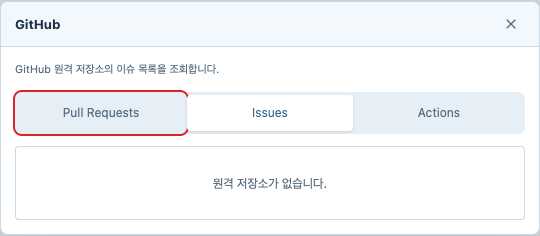
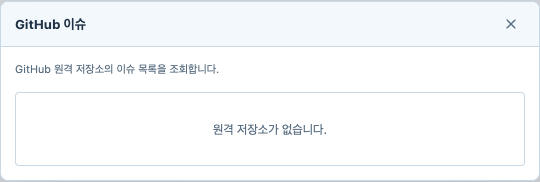
refactor: open provider lists as separate command dialogs

diff --git a/public/providers.js b/public/providers.js
@@ -4,8 +4,8 @@ githubPRs:['GitHub Pull Requests',[]],githubIssues:['GitHub Issues',[]],githubRu
 const integrations=el('section',undefined,'sidebar-integrations');$('branches').previousElementSibling.before(integrations);
 
 
-function providerTabs(definitions,active,onSelect){
- return PgitUI.segments({items:definitions,value:active,label:'리뷰 · 이슈 · CI',onChange:onSelect,className:'reference-modes provider-tabs',dataKey:'providerTab'}).element;
+function providerListFrame(action,remote,onRemote){
+ const body=advancedFrame(PgitI18n.t(commands[action][0])+(remote?' · '+remote:''),'list');body.dataset.providerAction=action;PgitCommandHelp.mount(body,action);providerRemoteSelect(body,remote,onRemote);return body;
 }
 function providerItem(item,title,meta,provider,action,remote){
  const project=state.remoteDetails?.find(r=>r.name===remote)?.url;
@@ -29,7 +29,7 @@ const providerOpenCommand=openCommand;openCommand=async function(key){
  return providerOpenCommand(key);
 };
 let githubViewRequest=0;
-async function showGitHub(action,remote){if(!state)return notify('먼저 저장소를 여세요.');remote=remote||(state.remotes.includes('origin')?'origin':state.remotes[0]);const request=++githubViewRequest,root=state.root;const body=advancedFrame('GitHub'+(remote?' · '+remote:''),'list');PgitCommandHelp.mount(body,action);providerRemoteSelect(body,remote,value=>showGitHub(action,value));const tabs=providerTabs([['githubPRs','Pull Requests'],['githubIssues','Issues'],['githubRuns','Actions']],action,key=>showGitHub(key,remote));body.append(tabs);const list=el('div',undefined,'ui-item-list');body.append(list);if(!remote){list.append(PgitUI.message('원격 저장소가 없습니다.'));return}list.append(PgitUI.message('불러오는 중…'));try{const result=JSON.parse(await api(action,{remote}));if(request!==githubViewRequest||state.root!==root||!body.isConnected)return;list.replaceChildren();for(const item of result){const row=providerItem(item,(item.number?'#'+item.number+' · ':'')+(item.title||item.displayTitle),item.headRefName?item.headRefName+' → '+item.baseRefName:item.status?item.status+' · '+(item.conclusion||''):item.updatedAt||'','github',action,remote);if(action==='githubPRs'){const detail=el('button','상세 보기');detail.onclick=()=>showProviderReview('github',item.number,remote);row.querySelector('.ui-list-actions').append(detail)}if(action==='githubPRs')for(const [key,label] of [['githubPRDiff','Diff'],['githubPRChecks','검사'],['githubPRCheckout','체크아웃']]){const b=el('button',label);b.onclick=async()=>{if(key==='githubPRDiff'||key==='githubPRChecks')return showProviderReview('github',item.number,remote,key==='githubPRDiff'?'files':'checks');return checkoutProvider(key,item.number,remote)};row.querySelector('.ui-list-actions').append(b)}list.append(row)}if(!result.length)list.append(PgitUI.message('표시할 항목이 없습니다.'))}catch(e){if(request===githubViewRequest&&body.isConnected)list.replaceChildren(PgitUI.message(e.message,{error:true}))}}
+async function showGitHub(action,remote){if(!state)return notify('먼저 저장소를 여세요.');remote=remote||(state.remotes.includes('origin')?'origin':state.remotes[0]);const request=++githubViewRequest,root=state.root;const body=providerListFrame(action,remote,value=>showGitHub(action,value));const list=el('div',undefined,'ui-item-list');body.append(list);if(!remote){list.append(PgitUI.message('원격 저장소가 없습니다.'));return}list.append(PgitUI.message('불러오는 중…'));try{const result=JSON.parse(await api(action,{remote}));if(request!==githubViewRequest||state.root!==root||!body.isConnected)return;list.replaceChildren();for(const item of result){const row=providerItem(item,(item.number?'#'+item.number+' · ':'')+(item.title||item.displayTitle),item.headRefName?item.headRefName+' → '+item.baseRefName:item.status?item.status+' · '+(item.conclusion||''):item.updatedAt||'','github',action,remote);if(action==='githubPRs'){const detail=el('button','상세 보기');detail.onclick=()=>showProviderReview('github',item.number,remote);row.querySelector('.ui-list-actions').append(detail)}if(action==='githubPRs')for(const [key,label] of [['githubPRDiff','Diff'],['githubPRChecks','검사'],['githubPRCheckout','체크아웃']]){const b=el('button',label);b.onclick=async()=>{if(key==='githubPRDiff'||key==='githubPRChecks')return showProviderReview('github',item.number,remote,key==='githubPRDiff'?'files':'checks');return checkoutProvider(key,item.number,remote)};row.querySelector('.ui-list-actions').append(b)}list.append(row)}if(!result.length)list.append(PgitUI.message('표시할 항목이 없습니다.'))}catch(e){if(request===githubViewRequest&&body.isConnected)list.replaceChildren(PgitUI.message(e.message,{error:true}))}}
 
 const beforeProviderApi=api;api=async function(action,data={}){const result=await beforeProviderApi(action,data);if(action==='githubPRCheckout'||action==='gitlabMRCheckout'){state=await beforeProviderApi('state',{limit:historyLimit});scope=null;activeCommit=null;render()}return result};
 
@@ -47,10 +47,8 @@ let gitlabViewRequest=0;
 async function showGitLab(action='gitlabMRs',remote){
  if(!state)return notify('먼저 저장소를 여세요.');
  const request=++gitlabViewRequest,root=state.root;remote=remote||(state.remotes.includes('origin')?'origin':state.remotes[0]);
- const body=advancedFrame('GitLab · '+PgitPaths.basename(root),'list');PgitCommandHelp.mount(body,action);
- providerRemoteSelect(body,remote,value=>showGitLab(action,value));
- const tabs=providerTabs([['gitlabMRs','Merge Requests'],['gitlabIssues','Issues'],['gitlabPipelines','Pipelines']],action,key=>showGitLab(key,remote));
- body.append(tabs);const list=el('div',undefined,'ui-item-list');list.setAttribute('aria-live','polite');body.append(list);
+ const body=providerListFrame(action,remote,value=>showGitLab(action,value));
+ const list=el('div',undefined,'ui-item-list');list.setAttribute('aria-live','polite');body.append(list);
  if(!remote){list.replaceChildren(PgitUI.message('원격 저장소가 없습니다.'));return}
  if(action!=='gitlabPipelines'){const create=el('button',action==='gitlabMRs'?'Draft MR 만들기':'GitLab 이슈 만들기');create.onclick=()=>command(action==='gitlabMRs'?'gitlabMRCreate':'gitlabIssueCreate');body.append(create)}
  async function command(key,number){advancedDialog.close();await openCommand(key);const field=$('command-remote');if(field){field.value=remote;field.dispatchEvent(new Event('change',{bubbles:true}))}if(number)$('command-number').value=number}
@@ -63,12 +61,6 @@ async function showGitLab(action='gitlabMRs',remote){
 
 // Every entry represents a configured Git remote, not an authenticated account.
 for(const [key,definition] of Object.entries(commands))if(key.startsWith('github'))definition[1].unshift(['remote','원격','remotes']);
-function showRemoteTools(remote){
- if(remote.provider==='github')return showGitHub('githubPRs',remote.name);
- if(remote.provider==='gitlab')return showGitLab('gitlabMRs',remote.name);
- const body=advancedFrame(remote.name+' · '+remote.host,'menu');
- for(const [provider,label] of [['github','GitHub'],['gitlab','GitLab']]){const button=el('button',label,'command-option');PgitIcons.label(button,provider,label);button.onclick=()=>provider==='github'?showGitHub('githubPRs',remote.name):showGitLab('gitlabMRs',remote.name);body.append(button)}
-}
 function renderRemoteSites(groups=[]){
  const remotes=[...(state?.remoteDetails||[])];for(const group of groups){const name=group.querySelector('.branch-folder-name').textContent;if(!remotes.some(r=>r.name===name))remotes.push({name})}remotes.sort((a,b)=>(a.name==='origin'?-1:b.name==='origin'?1:a.name.localeCompare(b.name)));integrations.replaceChildren();
  const heading=el('div',undefined,'remote-sites-heading'),title=el('span','원격 저장소','caption'),add=el('button');add.type='button';PgitIcons.label(add,'plus');add.setAttribute('aria-label','원격 추가');add.title='원격 추가';add.onclick=()=>openCommand('remoteAdd');heading.append(title,add);integrations.append(heading);
@@ -76,7 +68,7 @@ function renderRemoteSites(groups=[]){
  if(count){const toggle=el('button',undefined,'remote-site-toggle');PgitIcons.label(toggle,'right');toggle.setAttribute('aria-label',remote.name);const key=(state?.root||'')+'|remote|'+remote.name;let expanded=branchFolderExpansion.get(key)??true;toggle.setAttribute('aria-expanded',String(expanded));children.hidden=!expanded;toggle.onclick=()=>{expanded=!expanded;children.hidden=!expanded;const tags=row.querySelector('.remote-tags');if(tags)tags.hidden=!expanded;toggle.setAttribute('aria-expanded',String(expanded));branchFolderExpansion.set(key,expanded)};row.append(toggle)}
  const link=el(remote.url?'a':'span',undefined,'remote-site-link');link.append(PgitIcons.icon(remote.provider||'folder'));const text=el('span',undefined,'remote-site-text');text.append(el('strong',remote.name,'literal-data'));if(remote.host)text.append(el('small',remote.host,'literal-data remote-site-host'));text.append(el('span',remote.project||'웹 주소 없음',remote.project?'literal-data':'remote-site-unavailable'));link.append(text);
  if(remote.url){PgitUI.externalLink(link,remote.url);link.title=remote.url;const external=el('span','↗','remote-site-external');external.setAttribute('aria-hidden','true');link.append(external)}row.append(link);
- if(remote.url){const tools=el('button');PgitIcons.label(tools,'review');tools.setAttribute('aria-label','리뷰 · 이슈 · CI');tools.title='리뷰 · 이슈 · CI';tools.onclick=()=>showRemoteTools(remote);row.append(tools)}if(count){row.append(el('span',String(count),'remote-site-count folder-count'),children)}appendRemoteTags(row,remote);integrations.append(row)}
+ if(count){row.append(el('span',String(count),'remote-site-count folder-count'),children)}appendRemoteTags(row,remote);integrations.append(row)}
  if(!remotes.length)integrations.append(el('p','원격 저장소가 없습니다.','remote-sites-empty'));
 }
 

diff --git a/public/controls.css b/public/controls.css
@@ -496,7 +496,5 @@ body dialog .folder-picker-field>output{padding:.5em .75em}
 body #projectDialog .path-field.folder-picker-field{flex-wrap:nowrap}
 
 body #projectDialog .path-field.folder-picker-field input{flex-basis:0;width:0}
-.provider-tabs{margin-bottom:12px;flex-shrink:0}
-body .provider-tabs button{min-height:36px;height:auto;line-height:1.5}
 
 body .worktree-dialog .body>.command-help{padding:12px 18px 0;margin:0}
